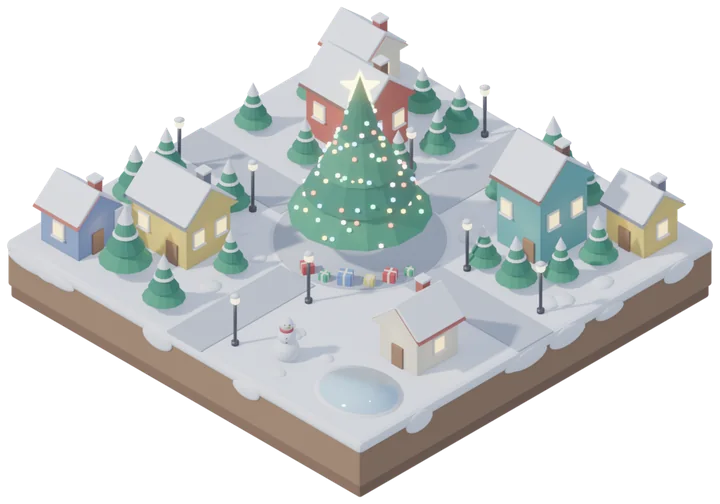
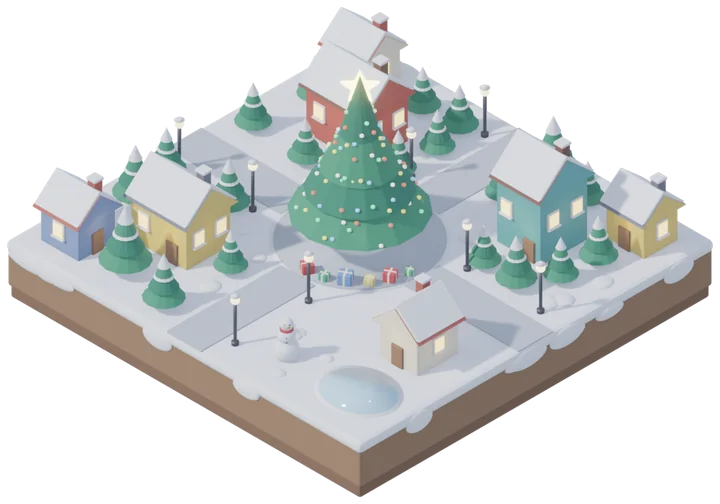
December theme: twinkling tree lights and a xylophone Jingle Bells
The town is now a base render with the tree lights dimmed plus three small
layers over the tree (about 11KB each), one per group of bulbs; CSS fades
them in turn so the lights twinkle. Reduced motion shows them steady.

A music button plays Jingle Bells (J. L. Pierpont, 1857, public domain) on a
xylophone synthesized with Web Audio: melody plus a light bass, a short echo,
looping. Nothing to download; it starts only on click and stops when the tab
is hidden or the theme is turned off.

Changed region(s): [[0.4278, 0.2381, 0.5806, 0.4762], [0.3972, 0.3869, 0.4278, 0.4167]]

diff --git a/assets/main.js b/assets/main.js
@@ -589,6 +589,81 @@
       snowBtn.innerHTML = '<svg viewBox="0 0 24 24" aria-hidden="true"><path d="M12 3v18M4.2 7.5l15.6 9M4.2 16.5l15.6-9M9.6 4.6 12 7l2.4-2.4M9.6 19.4 12 17l2.4 2.4M4.6 10.9l3.3-.9-.9-3.3M19.4 13.1l-3.3.9.9 3.3M4.6 13.1l3.3.9-.9 3.3M19.4 10.9l-3.3-.9.9-3.3"/></svg>';
       wrap.appendChild(snowBtn); wrap.appendChild(themeBtn);
     }
+    let musicBtn = null;
+    if (snowBtn) {
+      musicBtn = document.createElement('button');
+      musicBtn.type = 'button'; musicBtn.className = 'theme-btn snow-btn music-btn';
+      musicBtn.setAttribute('aria-label', 'Play Jingle Bells on a xylophone');
+      musicBtn.title = 'Play Jingle Bells (xylophone)';
+      musicBtn.innerHTML = '<svg viewBox="0 0 24 24" aria-hidden="true"><path d="M9.5 17.5V5.5l10-2v12"/><circle cx="7" cy="17.5" r="2.5"/><circle cx="17" cy="15.5" r="2.5"/></svg>';
+      snowBtn.parentNode.insertBefore(musicBtn, snowBtn);
+    }
+
+    // Jingle Bells (J. L. Pierpont, 1857, public domain) on a synthesized xylophone: Web Audio only,
+    // nothing to download, and it plays only after a click.
+    const carol = (function () {
+      const HI = { C: 523.25, D: 587.33, E: 659.25, F: 698.46, G: 783.99 };
+      const LO = { C: 130.81, D: 146.83, F: 174.61, G: 196.0, A: 220.0, C4: 261.63, D4: 293.66 };
+      const hook = [['E', 1], ['E', 1], ['E', 2], ['E', 1], ['E', 1], ['E', 2], ['E', 1], ['G', 1], ['C', 1.5], ['D', .5], ['E', 4]];
+      const mid = [['F', 1], ['F', 1], ['F', 1.5], ['F', .5], ['F', 1], ['E', 1], ['E', 1], ['E', .5], ['E', .5]];
+      const tune = [...hook, ...mid, ['E', 1], ['D', 1], ['D', 1], ['E', 1], ['D', 2], ['G', 2],
+                    ...hook, ...mid, ['G', 1], ['G', 1], ['F', 1], ['D', 1], ['C', 4]];
+      // one chord per bar: root on beat 1, fifth on beat 3
+      const bass = 'C C C C F C D G C C C C F C G C'.split(' ');
+      const FIFTH = { C: 'G', F: 'C4', D: 'A', G: 'D4' };
+      const BEAT = 60 / 138, LOOP = 64;
+      let ctx = null, master = null, timer = 0, playing = false;
+
+      function strike(out, f, t, vel, len) {
+        // a wooden bar: the fundamental plus the bright, quickly fading partials of a xylophone
+        [[1, 1, 1], [3, .32, .35], [6.3, .1, .18], [9.8, .04, .1]].forEach(([m, amp, d]) => {
+          const o = ctx.createOscillator(), g = ctx.createGain();
+          o.type = 'sine'; o.frequency.value = f * m;
+          g.gain.setValueAtTime(.0001, t);
+          g.gain.exponentialRampToValueAtTime(vel * amp, t + .003);
+          g.gain.exponentialRampToValueAtTime(.0001, t + len * d);
+          o.connect(g); g.connect(out); o.start(t); o.stop(t + len * d + .05);
+        });
+      }
+      function schedule(t0) {
+        let t = t0;
+        tune.forEach(([n, b], i) => { strike(master, HI[n], t, i % 2 ? .5 : .6, .9); t += b * BEAT; });
+        bass.forEach((c, k) => {
+          const bt = t0 + k * 4 * BEAT;
+          strike(master, LO[c], bt, .38, 1.4);
+          if (k < bass.length - 1) strike(master, LO[FIFTH[c]], bt + 2 * BEAT, .26, 1.1);
+        });
+        return t0 + (LOOP + 2) * BEAT;
+      }
+      function play() {
+        const AC = window.AudioContext || window.webkitAudioContext;
+        if (!AC) return false;
+        ctx = ctx || new AC();
+        ctx.resume();
+        master = ctx.createGain(); master.gain.value = .2;
+        const echo = ctx.createDelay(), fb = ctx.createGain(), tone = ctx.createBiquadFilter();
+        echo.delayTime.value = .23; fb.gain.value = .22; tone.type = 'lowpass'; tone.frequency.value = 2600;
+        master.connect(ctx.destination); master.connect(echo); echo.connect(tone); tone.connect(fb); fb.connect(echo); tone.connect(ctx.destination);
+        let t = ctx.currentTime + .08;
+        const loop = () => { t = schedule(t); timer = setTimeout(loop, Math.max(0, (t - ctx.currentTime - 1) * 1000)); };
+        loop(); playing = true;
+        return true;
+      }
+      function stop() {
+        clearTimeout(timer); playing = false;
+        if (!master) return;
+        const m = master; master = null;
+        m.gain.setTargetAtTime(0, ctx.currentTime, .08);
+        setTimeout(() => { m.disconnect(); if (!master && ctx) ctx.suspend(); }, 500);
+      }
+      return { play, stop, get playing() { return playing; } };
+    })();
+    const syncMusic = () => { if (musicBtn) musicBtn.setAttribute('aria-pressed', String(carol.playing)); };
+    if (musicBtn) musicBtn.addEventListener('click', () => {
+      if (carol.playing) carol.stop(); else carol.play();
+      syncMusic();
+    });
+    document.addEventListener('visibilitychange', () => { if (document.hidden && carol.playing) { carol.stop(); syncMusic(); } });
     const mq = matchMedia('(prefers-color-scheme: dark)');
     const isDark = () => root.getAttribute('data-theme') === 'dark' || (!root.getAttribute('data-theme') && mq.matches);
 
@@ -640,17 +715,27 @@
     }
 
     let stops = [], town = null;
-    const townSrc = () => 'assets/img/xmas-town-' + (isDark() ? 'night' : 'day') + '.webp';
+    // The town is a base render with the tree lights dimmed, plus three small layers over the tree,
+    // each with one group of bulbs lit; CSS fades them in turn so the lights twinkle.
+    const setTownSrc = () => {
+      if (!town) return;
+      const m = isDark() ? 'night' : 'day';
+      town.querySelectorAll('img').forEach(img => {
+        img.src = img.dataset.g === undefined ? 'assets/img/xmas-town-' + m + '.webp' : 'assets/img/xmas-lights-' + m + '-' + img.dataset.g + '.webp';
+      });
+    };
     function on() {
       root.classList.add('xmas');
+      if (musicBtn) musicBtn.hidden = false;
       stops = [...document.querySelectorAll('.hero, .page-head')].map(snowfall);
       const hero = document.querySelector('.hero');
       if (hero) {
-        town = document.createElement('img');
-        town.className = 'xmas-town'; town.alt = ''; town.setAttribute('aria-hidden', 'true');
-        town.width = 720; town.height = 504; town.decoding = 'async';
-        town.addEventListener('load', () => { if (town) town.classList.add('in'); });
-        town.src = townSrc();
+        town = document.createElement('div');
+        town.className = 'xmas-town'; town.setAttribute('aria-hidden', 'true');
+        town.innerHTML = '<img class="town-base" alt="" width="720" height="504" decoding="async">' +
+          [0, 1, 2].map(g => '<img class="town-lights" data-g="' + g + '" alt="" width="189" height="198" decoding="async">').join('');
+        town.firstChild.addEventListener('load', () => { if (town) town.classList.add('in'); });
+        setTownSrc();
         hero.insertBefore(town, hero.querySelector('.wash'));
       }
     }
@@ -658,8 +743,11 @@
       root.classList.remove('xmas');
       stops.forEach(s => s()); stops = [];
       if (town) { town.remove(); town = null; }
+      if (carol.playing) carol.stop();
+      syncMusic();
+      if (musicBtn) musicBtn.hidden = true;
     }
-    const swap = () => { if (town) town.src = townSrc(); };
+    const swap = setTownSrc;
     new MutationObserver(swap).observe(root, { attributes: true, attributeFilter: ['data-theme'] });
     if (mq.addEventListener) mq.addEventListener('change', swap);
 
@@ -669,8 +757,8 @@
       snowBtn.setAttribute('aria-pressed', String(enabled));
       snowBtn.title = enabled ? 'Turn off the December theme' : 'Turn on the December theme';
     };
-    if (enabled) on();
-    sync();
+    if (enabled) on(); else if (musicBtn) musicBtn.hidden = true;
+    sync(); syncMusic();
     if (snowBtn) snowBtn.addEventListener('click', () => {
       enabled = !enabled; store.set('xmas', enabled ? 'on' : 'off');
       if (enabled) on(); else off();

diff --git a/assets/styles.css b/assets/styles.css
@@ -490,8 +490,14 @@ article.item.flash { animation: item-flash 2.2s ease-out; }
 .xmas-town { position: absolute; right: max(var(--gutter), calc((100% - 1360px) / 2)); bottom: 4vh; width: clamp(220px, 26vw, 390px); height: auto;
   pointer-events: none; opacity: 0; transition: opacity .8s ease; filter: drop-shadow(0 16px 22px rgba(20, 30, 70, .22)); animation: town-float 7s ease-in-out infinite; }
 .xmas-town.in { opacity: 1; }
+.xmas-town img { display: block; width: 100%; height: auto; }
+.xmas-town .town-lights { position: absolute; left: 37.5%; top: 17.262%; width: 26.25%; opacity: 0; animation: tree-twinkle 3.3s ease-in-out infinite; }
+.xmas-town .town-lights[data-g="1"] { animation-delay: -1.1s; }
+.xmas-town .town-lights[data-g="2"] { animation-delay: -2.2s; }
+@keyframes tree-twinkle { 0%, 100% { opacity: 0; } 30% { opacity: 1; } 62% { opacity: 0; } }
+.music-btn[hidden] { display: none; }
 @keyframes town-float { 50% { transform: translateY(-7px); } }
 @media (max-width: 760px) {
   .xmas-town { width: min(46vw, 300px); right: auto; left: var(--gutter); bottom: calc(20px + clamp(76px, 16vw, 200px) * 1.02 + 60px); }
 }
-@media (prefers-reduced-motion: reduce) { .xmas-town { animation: none; transition: none; } }
+@media (prefers-reduced-motion: reduce) { .xmas-town { animation: none; transition: none; } .xmas-town .town-lights { animation: none; opacity: .55; } }

diff --git a/talk.html b/talk.html
@@ -17,7 +17,7 @@
   <link rel="preconnect" href="https://fonts.gstatic.com" crossorigin>
   <link rel="stylesheet" href="https://fonts.googleapis.com/css2?family=Montserrat:wght@400;500;600;700&family=IBM+Plex+Mono:wght@400;500&family=Noto+Sans+KR:wght@400;500&display=swap">
   <link rel="icon" href="assets/favicon.svg" type="image/svg+xml">
-  <link rel="stylesheet" href="assets/styles.css?v=52">
+  <link rel="stylesheet" href="assets/styles.css?v=53">
   <style>
     .prompt-box { position: relative; margin: var(--space-8) 0; border: 1px solid var(--line); border-radius: var(--radius-2); background: var(--surface-raised); }
     .prompt-box pre { margin: 0; padding: var(--space-16); padding-top: 44px; font: 13px/20px var(--font-mono); color: var(--ink); white-space: pre-wrap; overflow-wrap: anywhere; }
@@ -170,7 +170,7 @@
       <a href="https://github.com/bakeyeon">GitHub</a>
     </span>
   </footer>
-  <script src="assets/main.js?v=27"></script>
+  <script src="assets/main.js?v=28"></script>
   <script>
     (() => {
       const el = document.getElementById('local-time');

diff --git a/research.html b/research.html
@@ -18,7 +18,7 @@
   <link rel="preconnect" href="https://fonts.gstatic.com" crossorigin>
   <link rel="stylesheet" href="https://fonts.googleapis.com/css2?family=Montserrat:wght@400;500;600;700&family=IBM+Plex+Mono:wght@400;500&family=Noto+Sans+KR:wght@400;500&display=swap">
   <link rel="icon" href="assets/favicon.svg" type="image/svg+xml">
-  <link rel="stylesheet" href="assets/styles.css?v=52">
+  <link rel="stylesheet" href="assets/styles.css?v=53">
   <style>
     .x-media { margin: 0 0 var(--space-16); max-width: 520px; border: 1px solid var(--line); overflow: hidden; background: #0b1020; }
     .x-media.tall { max-width: 300px; }
@@ -265,6 +265,6 @@
       <a href="https://github.com/bakeyeon">GitHub</a>
     </span>
   </footer>
-  <script src="assets/main.js?v=27"></script>
+  <script src="assets/main.js?v=28"></script>
 </body>
 </html>

diff --git a/from-curiosity-to-proposal.html b/from-curiosity-to-proposal.html
@@ -17,7 +17,7 @@
   <link rel="preconnect" href="https://fonts.gstatic.com" crossorigin>
   <link rel="stylesheet" href="https://fonts.googleapis.com/css2?family=Montserrat:wght@400;500;600;700&family=IBM+Plex+Mono:wght@400;500&family=Noto+Sans+KR:wght@400;500&display=swap">
   <link rel="icon" href="assets/favicon.svg" type="image/svg+xml">
-  <link rel="stylesheet" href="assets/styles.css?v=52">
+  <link rel="stylesheet" href="assets/styles.css?v=53">
   <style>
     .essay h3 { margin-top: var(--space-24); }
     .essay ul { margin: 0 0 var(--space-16); padding-left: 1.25em; max-width: 68ch; }
@@ -218,6 +218,6 @@
       <a href="https://github.com/bakeyeon">GitHub</a>
     </span>
   </footer>
-  <script src="assets/main.js?v=27"></script>
+  <script src="assets/main.js?v=28"></script>
 </body>
 </html>

diff --git a/certificates.html b/certificates.html
@@ -17,7 +17,7 @@
   <link rel="preconnect" href="https://fonts.gstatic.com" crossorigin>
   <link rel="stylesheet" href="https://fonts.googleapis.com/css2?family=Montserrat:wght@400;500;600;700&family=IBM+Plex+Mono:wght@400;500&family=Noto+Sans+KR:wght@400;500&display=swap">
   <link rel="icon" href="assets/favicon.svg" type="image/svg+xml">
-  <link rel="stylesheet" href="assets/styles.css?v=52">
+  <link rel="stylesheet" href="assets/styles.css?v=53">
 </head>
 <body>
   <header class="bar">
@@ -139,6 +139,6 @@
       <a href="https://github.com/bakeyeon">GitHub</a>
     </span>
   </footer>
-  <script src="assets/main.js?v=27"></script>
+  <script src="assets/main.js?v=28"></script>
 </body>
 </html>

diff --git a/experience.html b/experience.html
@@ -17,7 +17,7 @@
   <link rel="preconnect" href="https://fonts.gstatic.com" crossorigin>
   <link rel="stylesheet" href="https://fonts.googleapis.com/css2?family=Montserrat:wght@400;500;600;700&family=IBM+Plex+Mono:wght@400;500&family=Noto+Sans+KR:wght@400;500&display=swap">
   <link rel="icon" href="assets/favicon.svg" type="image/svg+xml">
-  <link rel="stylesheet" href="assets/styles.css?v=52">
+  <link rel="stylesheet" href="assets/styles.css?v=53">
 </head>
 <body>
   <header class="bar">
@@ -170,6 +170,6 @@
       <a href="https://github.com/bakeyeon">GitHub</a>
     </span>
   </footer>
-  <script src="assets/main.js?v=27"></script>
+  <script src="assets/main.js?v=28"></script>
 </body>
 </html>

diff --git a/education.html b/education.html
@@ -17,7 +17,7 @@
   <link rel="preconnect" href="https://fonts.gstatic.com" crossorigin>
   <link rel="stylesheet" href="https://fonts.googleapis.com/css2?family=Montserrat:wght@400;500;600;700&family=IBM+Plex+Mono:wght@400;500&family=Noto+Sans+KR:wght@400;500&display=swap">
   <link rel="icon" href="assets/favicon.svg" type="image/svg+xml">
-  <link rel="stylesheet" href="assets/styles.css?v=52">
+  <link rel="stylesheet" href="assets/styles.css?v=53">
 </head>
 <body>
   <header class="bar">
@@ -79,6 +79,6 @@
       <a href="https://github.com/bakeyeon">GitHub</a>
     </span>
   </footer>
-  <script src="assets/main.js?v=27"></script>
+  <script src="assets/main.js?v=28"></script>
 </body>
 </html>

diff --git a/index.html b/index.html
@@ -19,7 +19,7 @@
   <link rel="preconnect" href="https://fonts.gstatic.com" crossorigin>
   <link rel="stylesheet" href="https://fonts.googleapis.com/css2?family=Montserrat:wght@400;500;600;700&family=IBM+Plex+Mono:wght@400;500&family=Noto+Sans+KR:wght@400;500&display=swap">
   <link rel="icon" href="assets/favicon.svg" type="image/svg+xml">
-  <link rel="stylesheet" href="assets/styles.css?v=52">
+  <link rel="stylesheet" href="assets/styles.css?v=53">
 </head>
 <body>
   <header class="bar">
@@ -113,6 +113,6 @@
     </span>
   </footer>
   <script src="assets/news.js?v=6"></script>
-  <script src="assets/main.js?v=27"></script>
+  <script src="assets/main.js?v=28"></script>
 </body>
 </html>

diff --git a/news.html b/news.html
@@ -17,7 +17,7 @@
   <link rel="preconnect" href="https://fonts.gstatic.com" crossorigin>
   <link rel="stylesheet" href="https://fonts.googleapis.com/css2?family=Montserrat:wght@400;500;600;700&family=IBM+Plex+Mono:wght@400;500&family=Noto+Sans+KR:wght@400;500&display=swap">
   <link rel="icon" href="assets/favicon.svg" type="image/svg+xml">
-  <link rel="stylesheet" href="assets/styles.css?v=52">
+  <link rel="stylesheet" href="assets/styles.css?v=53">
 </head>
 <body>
   <header class="bar">
@@ -50,6 +50,6 @@
     </span>
   </footer>
   <script src="assets/news.js?v=6"></script>
-  <script src="assets/main.js?v=27"></script>
+  <script src="assets/main.js?v=28"></script>
 </body>
 </html>
